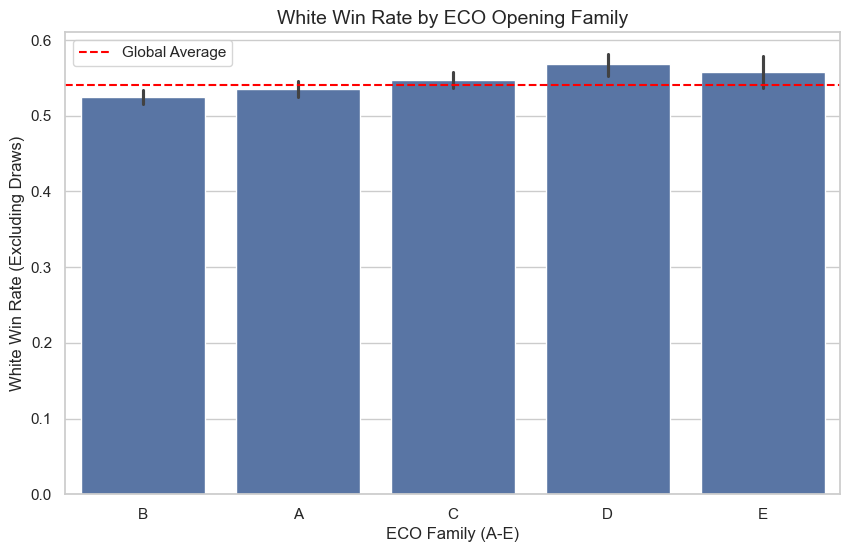
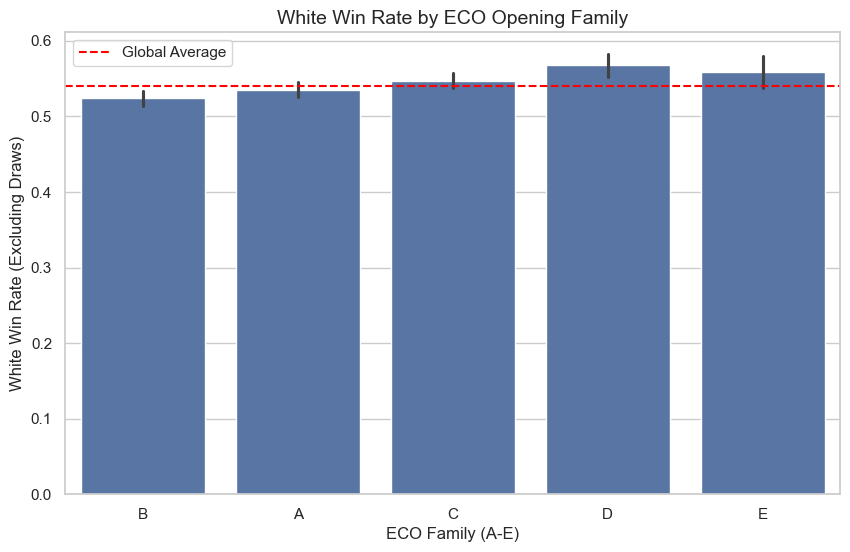
chore: clean up empty code change sections in the changes log

diff --git a/src/visualization/EDA.py b/src/visualization/EDA.py
@@ -15,24 +15,17 @@ if project_dir not in sys.path:
 # Set visual styling
 sns.set_theme(style="whitegrid", palette="muted")
 
-def plot_match_outcomes(df: pd.DataFrame, output_dir: str):
+# Target Variable Distribution (elo_bucket_white_categorical)
+def plot_target_variable_distribution(df: pd.DataFrame, output_dir: str):
     plt.figure(figsize=(8, 5))
-    ax = sns.countplot(data=df, x='winner_multiclass', order=[2, 1, 0], palette=['#4C72B0', '#C44E52', '#55A868'])
-    plt.title('Distribution of Match Outcomes (Target)', fontsize=14)
-    plt.xticks(ticks=[0, 1, 2], labels=['White Wins (2)', 'Draw (1)', 'Black Wins (0)'])
-    plt.ylabel('Number of Games')
-
-    # Add percentage labels
-    total = len(df)
-    for p in ax.patches:
-        percentage = f'{100 * p.get_height() / total:.1f}%'
-        x = p.get_x() + p.get_width() / 2 - 0.1
-        y = p.get_height() + 200
-        ax.annotate(percentage, (x, y), size=12)
-    
-    plt.savefig(os.path.join(output_dir, "match_outcomes.png"), bbox_inches="tight")
+    sns.countplot(data=df, x="elo_bucket_white_categorical", color="#4C72B0")
+    plt.title("Distribution of Target Variable: Elo Buckets (White Player)", fontsize=14)
+    plt.xlabel("Elo Bucket (White Player)")
+    plt.ylabel("Number of Games")
+    # plt.show()
+    plt.savefig(os.path.join(output_dir, "target_variable_distribution.png"), bbox_inches="tight")
     plt.close()
-
+# Feature-to-Target — Skill Gap vs. Outcome
 def plot_win_rate_by_elo_gap(df: pd.DataFrame, output_dir: str):
     # Bin the Elo gap for visualization
     df_plot = df.copy()
@@ -52,17 +45,19 @@ def plot_win_rate_by_elo_gap(df: pd.DataFrame, output_dir: str):
     plt.savefig(os.path.join(output_dir, "win_rate_elo_gap.png"), bbox_inches="tight")
     plt.close()
 
+# Feature-to-Target — Engine Accuracy Gap (ACL)
 def plot_acl_gap(df_sf: pd.DataFrame, output_dir: str):
     plt.figure(figsize=(10, 6))
-    sns.boxplot(data=df_sf, x='winner_multiclass', y='acl_gap', palette=['#55A868', '#C44E52', '#4C72B0'])
+    sns.boxplot(data=df_sf, x='winner_multiclass', y='acl_gap', hue='winner_multiclass', palette=['#55A868', '#C44E52', '#4C72B0'], legend=False)
     plt.title('Average Centipawn Loss Gap by Winner', fontsize=14)
     plt.xticks(ticks=[0, 1, 2], labels=['Black Wins', 'Draw', 'White Wins'])
     plt.ylabel('ACL Gap (White ACL - Black ACL)')
-    plt.ylim(-150, 150) # Zooming in to exclude extreme outliers
+    plt.ylim(-150, 150) 
     
     plt.savefig(os.path.join(output_dir, "acl_gap.png"), bbox_inches="tight")
     plt.close()
 
+# Game Dynamics — Sharpness vs. Draws
 def plot_game_sharpness(df_sf: pd.DataFrame, output_dir: str):
     plt.figure(figsize=(10, 6))
     sns.kdeplot(data=df_sf, x='game_sharpness', hue='winner_multiclass', fill=True, common_norm=False, alpha=0.4, palette=['#55A868', '#C44E52', '#4C72B0'])
@@ -74,6 +69,7 @@ def plot_game_sharpness(df_sf: pd.DataFrame, output_dir: str):
     plt.savefig(os.path.join(output_dir, "game_sharpness.png"), bbox_inches="tight")
     plt.close()
 
+# Openings — Does the First Move Matter?
 def plot_white_win_rate_eco(df: pd.DataFrame, output_dir: str):
     # Get top 10 opening families by volume
     top_openings = df['eco_family'].value_counts().index[:10]
@@ -89,32 +85,62 @@ def plot_white_win_rate_eco(df: pd.DataFrame, output_dir: str):
     plt.savefig(os.path.join(output_dir, "white_win_rate_eco.png"), bbox_inches="tight")
     plt.close()
 
+# Customer Segmentation: ECO Win Rate by Elo Bucket
+def plot_eco_win_rate_by_elo(df: pd.DataFrame, output_dir: str):
+    # Filter to the top 5 ECO families to keep the chart readable (A, B, C, D, E)
+    top_openings = df['eco_family'].value_counts().index[:5]
+    df_filtered = df[df['eco_family'].isin(top_openings)].copy()
+
+    # Ensure Elo buckets are treated as categorical strings for the legend
+    df_filtered['elo_bucket'] = df_filtered['elo_bucket_white_categorical'].astype(str)
+
+    plt.figure(figsize=(12, 7))
+    sns.barplot(
+        data=df_filtered, 
+        x='eco_family', 
+        y='winner_binary', 
+        hue='elo_bucket',
+        order=top_openings,
+        palette='viridis',
+        errorbar=None # Clean look without error bars for business presentations
+    )
+    
+    plt.title('White Win Rate by ECO Family & Elo Bucket (Customer Segmentation)', fontsize=14)
+    plt.xlabel('ECO Family (A-E)')
+    plt.ylabel('White Win Rate')
+    
+    # Move legend outside the plot
+    plt.legend(title='Elo Bucket (White)', bbox_to_anchor=(1.05, 1), loc='upper left')
+    plt.axhline(y=df['winner_binary'].mean(), color='red', linestyle='--', alpha=0.5, label='Global Average')
+    
+    plt.tight_layout()
+    plt.savefig(os.path.join(output_dir, "eco_win_rate_by_elo.png"), bbox_inches="tight")
+    plt.close()
+
+
 def main():
 
-    
-    # Check if we should use `figures_dir` from config or just results/figures
-    # `results/figures` was explicitly asked by user
     figures_dir = os.path.join(project_dir, "reports/figures")
     os.makedirs(figures_dir, exist_ok=True)
 
     intermediate_dir = os.path.join(project_dir, "data", "intermediate")
     merged_games_path = os.path.join(intermediate_dir, "merged_games.csv")
     
-    # Load the dataset
-    df = pd.read_csv(merged_games_path)
+    df = pd.read_csv(merged_games_path, low_memory=False)
 
-    # Separate a dataframe for Stockfish-only analysis (ignoring Lichess missing data)
+    # Separate a dataframe for Stockfish-only analysis 
     df_sf = df[df['has_stockfish'] == True].copy()
     
     print(f"Total Games: {df.shape[0]:,}")
     print(f"Games with Stockfish Analysis: {df_sf.shape[0]:,}")
     
     print(f"Saving plots to {figures_dir} ...")
-    plot_match_outcomes(df, figures_dir)
+    plot_target_variable_distribution(df, figures_dir)
     plot_win_rate_by_elo_gap(df, figures_dir)
     plot_acl_gap(df_sf, figures_dir)
     plot_game_sharpness(df_sf, figures_dir)
     plot_white_win_rate_eco(df, figures_dir)
+    plot_eco_win_rate_by_elo(df, figures_dir)
     print("Done.")
 
 if __name__ == "__main__":
